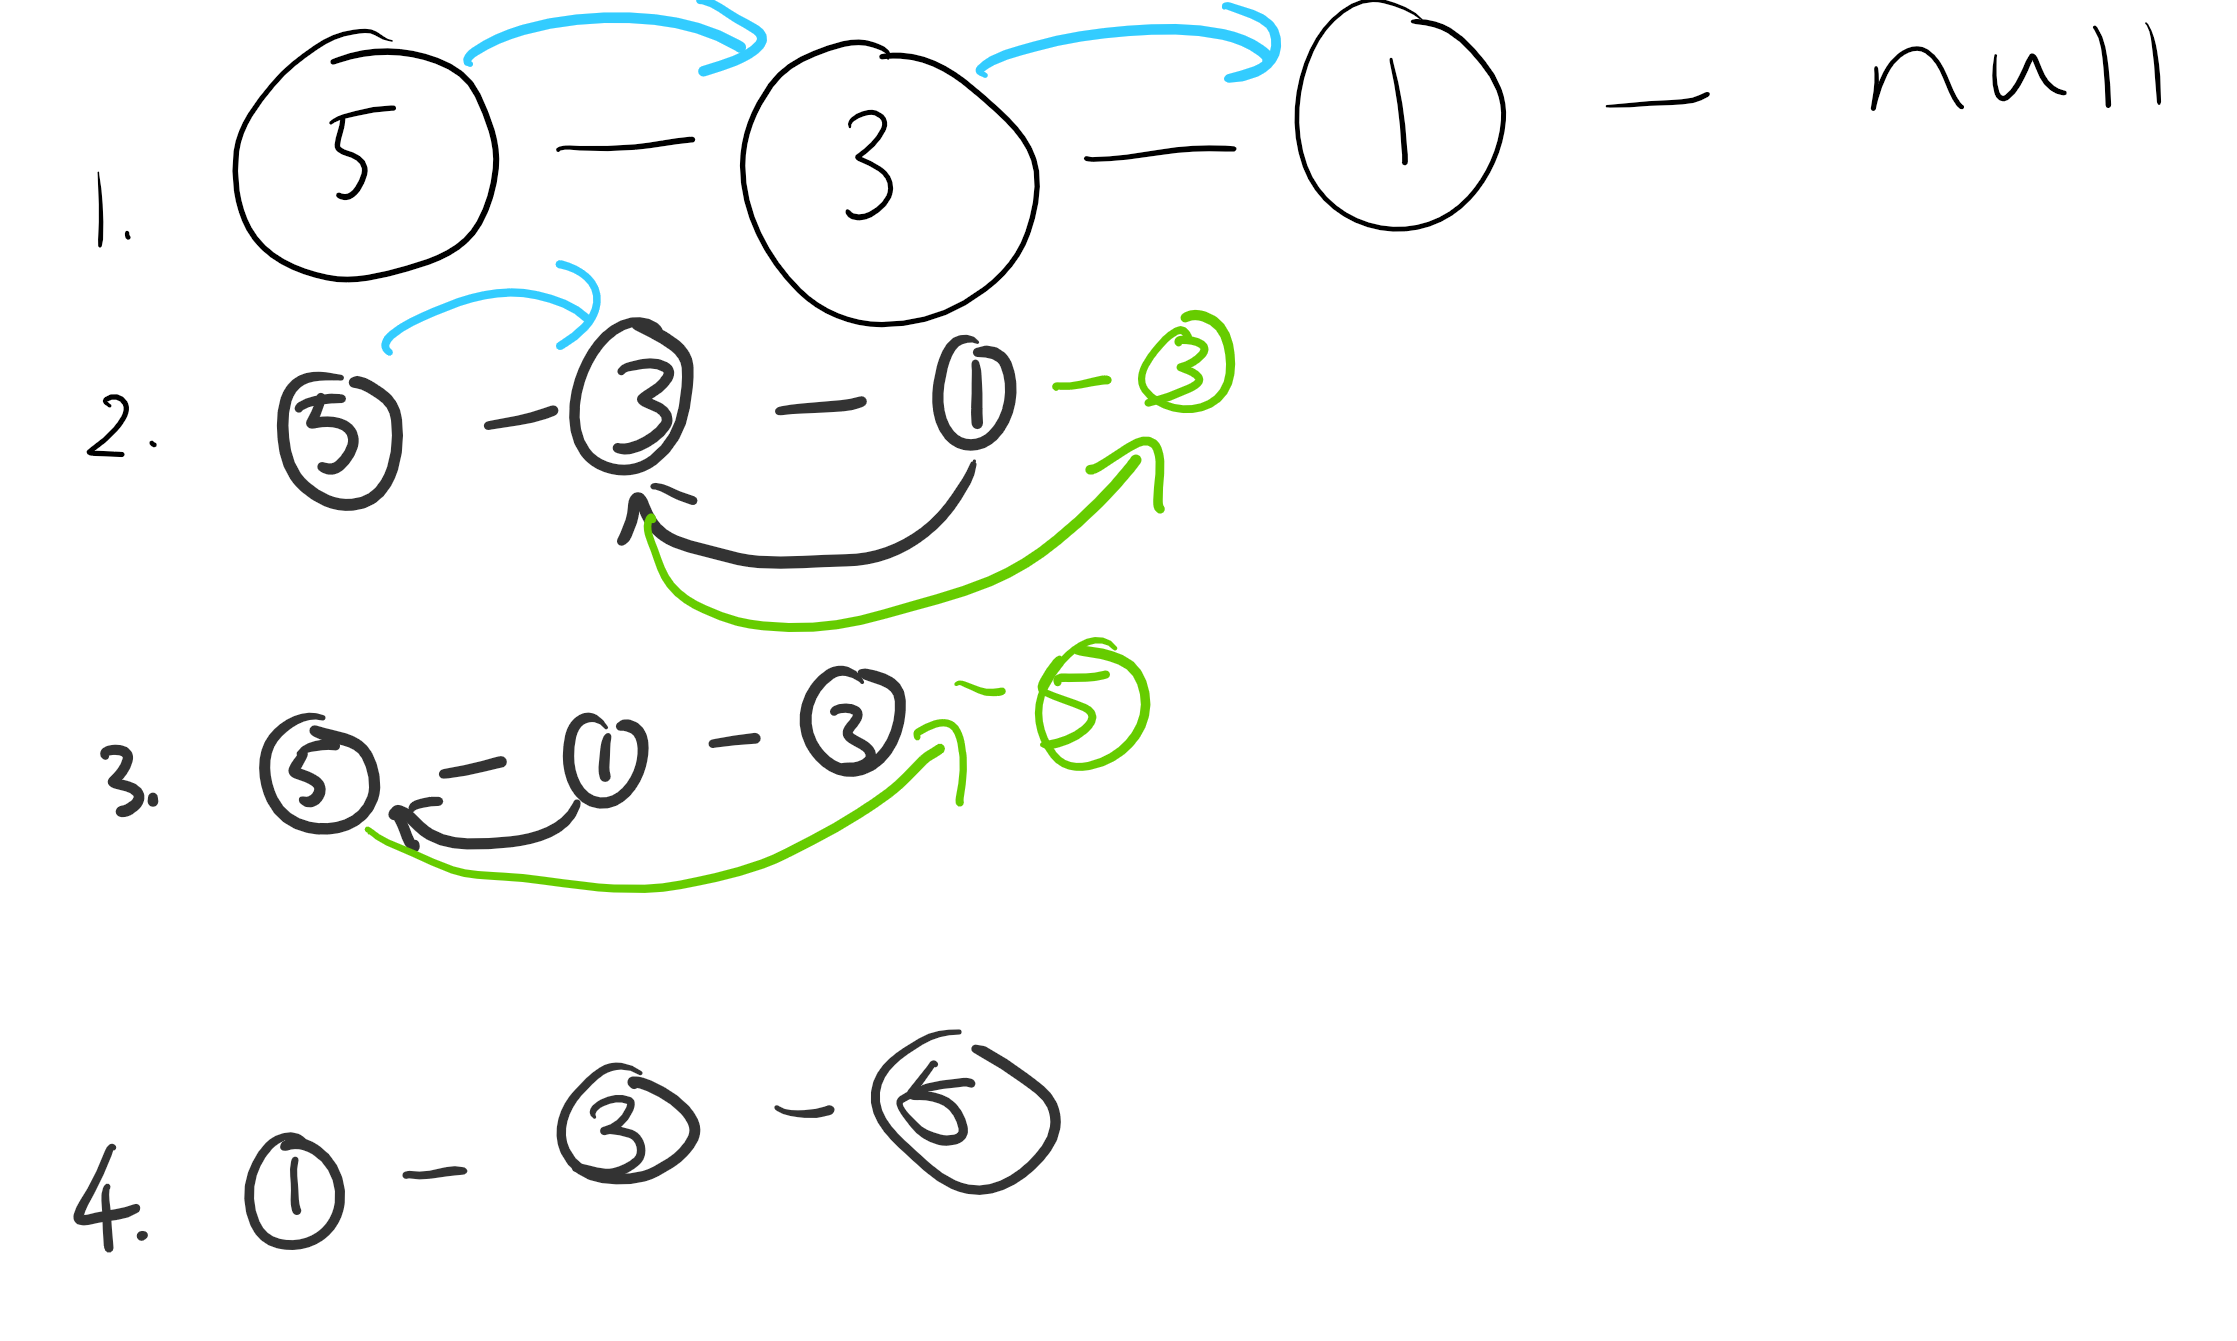
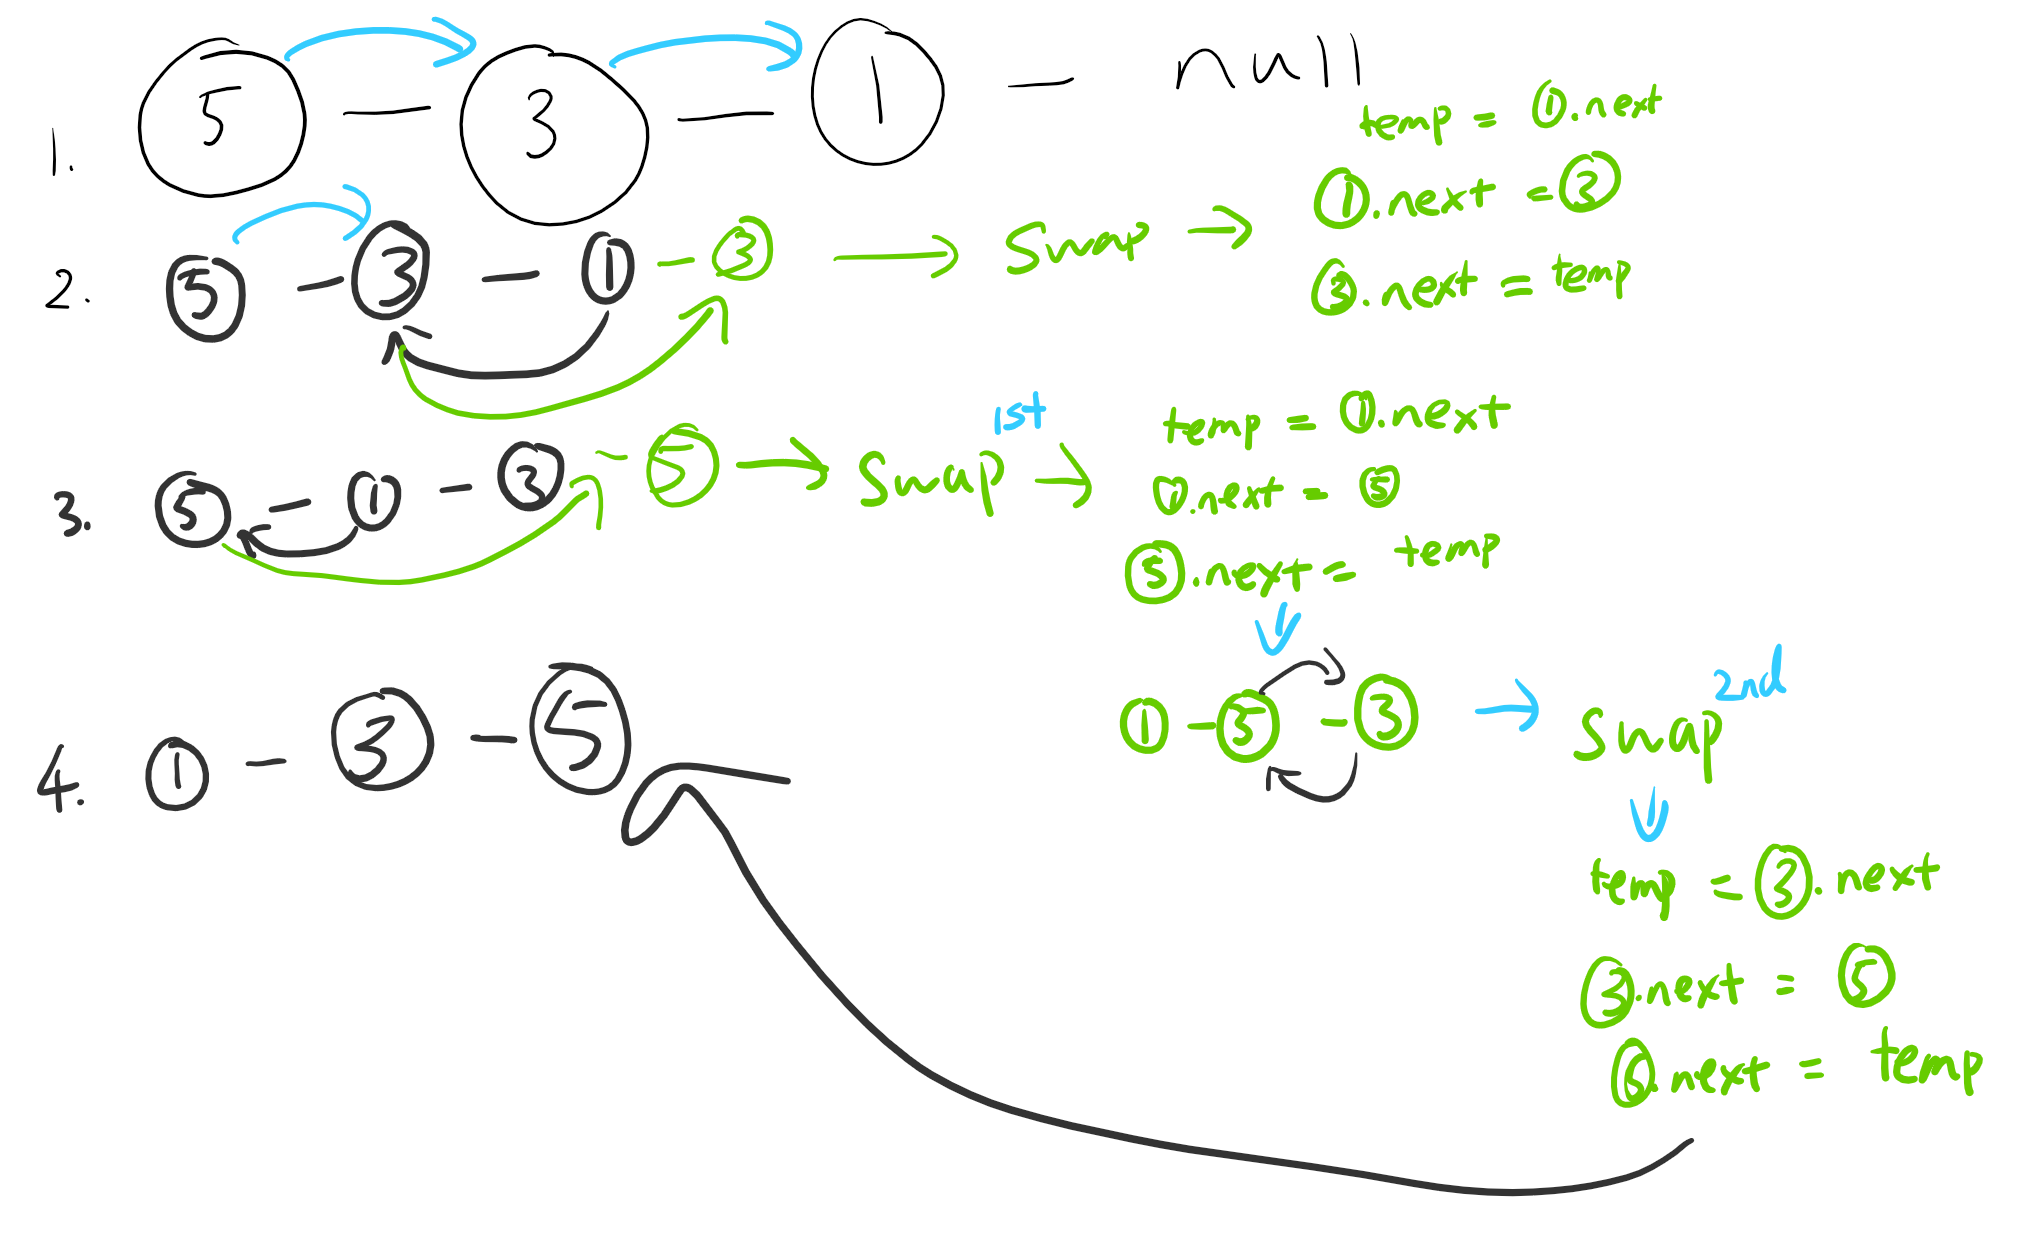
small changes

diff --git a/Foundation/Recursion/p4/p4.java b/Foundation/Recursion/p4/p4.java
@@ -1,4 +1,4 @@
-package Recursion.p4;
+// package Recursion.p4;
 
 public class p4 {
     public static void main(String[] args) {
@@ -8,6 +8,8 @@ public class p4 {
         ListNode node0 = new ListNode(1, node1);
         ListNode head = new ListNode(6, node0);
         // 61327 => 72316
+        head = reverseList(head);
+        IterateLinkedlist(head);
     }
 
     public static class ListNode {
@@ -31,19 +33,24 @@ public class p4 {
         if (head == null || head.next == null) {
             return head;
         }
-        ListNode returnNodeFromBackTracking = reverseList(head.next);
-        returnNodeFromBackTracking.next = head;
-
+        ListNode rightNode = reverseList(head.next);
+        swap(head, rightNode);
+        return rightNode;
     }
 
-    public static void swap(ListNode head) {
-        ListNode temp = head;
-
+    public static void swap(ListNode leftNode, ListNode rightNode) {
+        if(rightNode == null){
+            return;
+        }
+        ListNode temp = rightNode.next;
+        rightNode.next = leftNode;
+        leftNode.next = temp;
+        swap(leftNode, leftNode.next);
     }
 
-    public static ListNode reverseListIteratively(ListNode head) {
+    // public static ListNode reverseListIteratively(ListNode head) {
 
-    }
+    // }
 
     public static void IterateLinkedlist(ListNode head) {
         if (head == null) {
